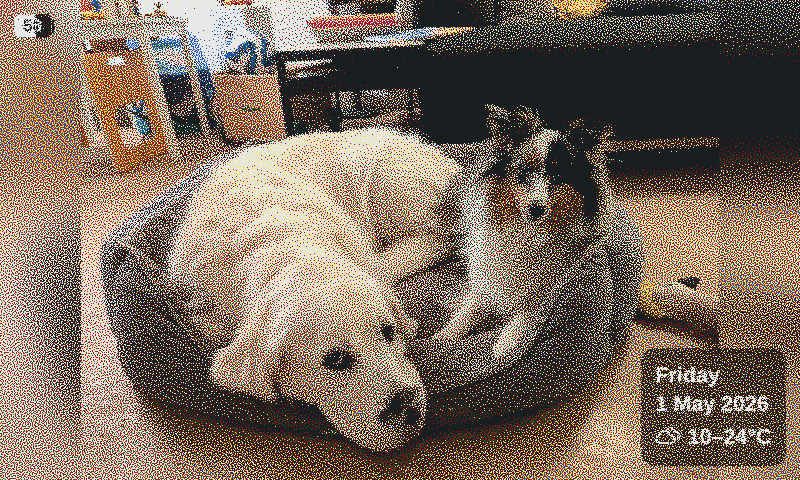
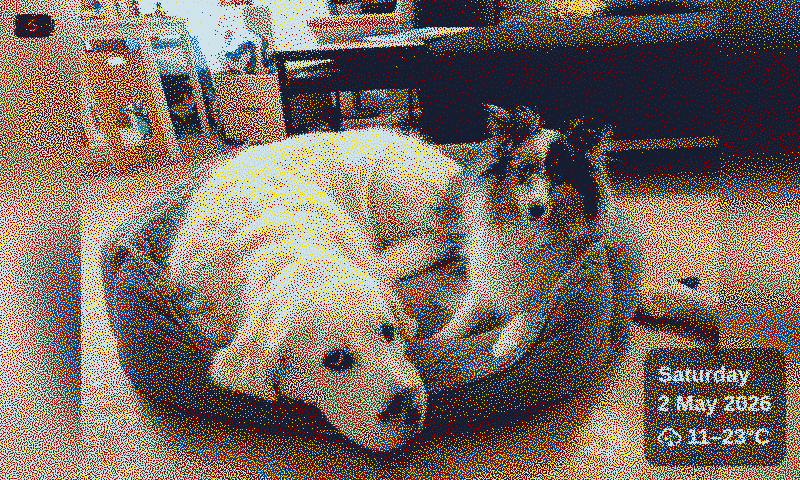
Regenerate E1002 and E1004 example PNGs against calibrated Spectra 6
Both `examples/e1002-landscape.png` and `examples/living-room.png`
were originally rendered against `epdoptimize`, which doesn't match
what real Spectra 6 hardware shows. Re-rendered through the server
on the same source photos with `dither_palette = "spectra6"` (alias
for `spectra6-d65-bpc80-adjusted`); E1002 also moves from
`naive-dominant` to `octahedron-furthest` decomposition.

E1001's 4-level grayscale example is unchanged.

README captions now name each image's decomposition / diffusion /
noise so what's pictured is reproducible from config alone, and the
matching entry in TODO.md is dropped.

diff --git a/README.md b/README.md
@@ -16,16 +16,19 @@ and battery indicator.
 
 ![Living room — 1200×1600 portrait, Spectra 6](examples/living-room.png)
 
-*1200×1600 portrait, Spectra 6 (E1004). Info overlay bottom-left,
+*1200×1600 portrait, Spectra 6 (E1004) — `naive-dominant` decomposition,
+Floyd–Steinberg diffusion, blue noise. Info overlay bottom-left,
 battery indicator top-right.*
 
 ![E1002 landscape — 800×480, Spectra 6](examples/e1002-landscape.png)
 
-*800×480 landscape, Spectra 6 (E1002).*
+*800×480 landscape, Spectra 6 (E1002) — `octahedron-furthest`
+decomposition, Floyd–Steinberg diffusion, blue noise.*
 
 ![E1001 landscape — 800×480, grayscale](examples/e1001-landscape.png)
 
-*800×480 landscape, 4-level grayscale (E1001).*
+*800×480 landscape, 4-level grayscale (E1001) — `gray-offset-blend:0.33`
+decomposition, Floyd–Steinberg diffusion, blue noise.*
 
 ## How it fits together
 

diff --git a/TODO.md b/TODO.md
@@ -1,18 +1,5 @@
 # TODO
 
-## Documentation
-
-### Regenerate Spectra 6 example images
-The README's E1002 and E1004 example images
-(`examples/e1002-landscape.png`, `examples/living-room.png`) were
-generated with `epdoptimize` instead of the calibrated Spectra 6
-pipeline this server actually ships, so the visible dither pattern
-and colour reproduction don't match what users will see on real
-hardware. Re-render them via the actual server (or the `epd-dither`
-CLI with this project's dither config) on the same source photos.
-The E1001 4-level grayscale example (`examples/e1001-landscape.png`)
-predates the issue and is fine.
-
 ## Licensing
 
 ### Asset attribution
